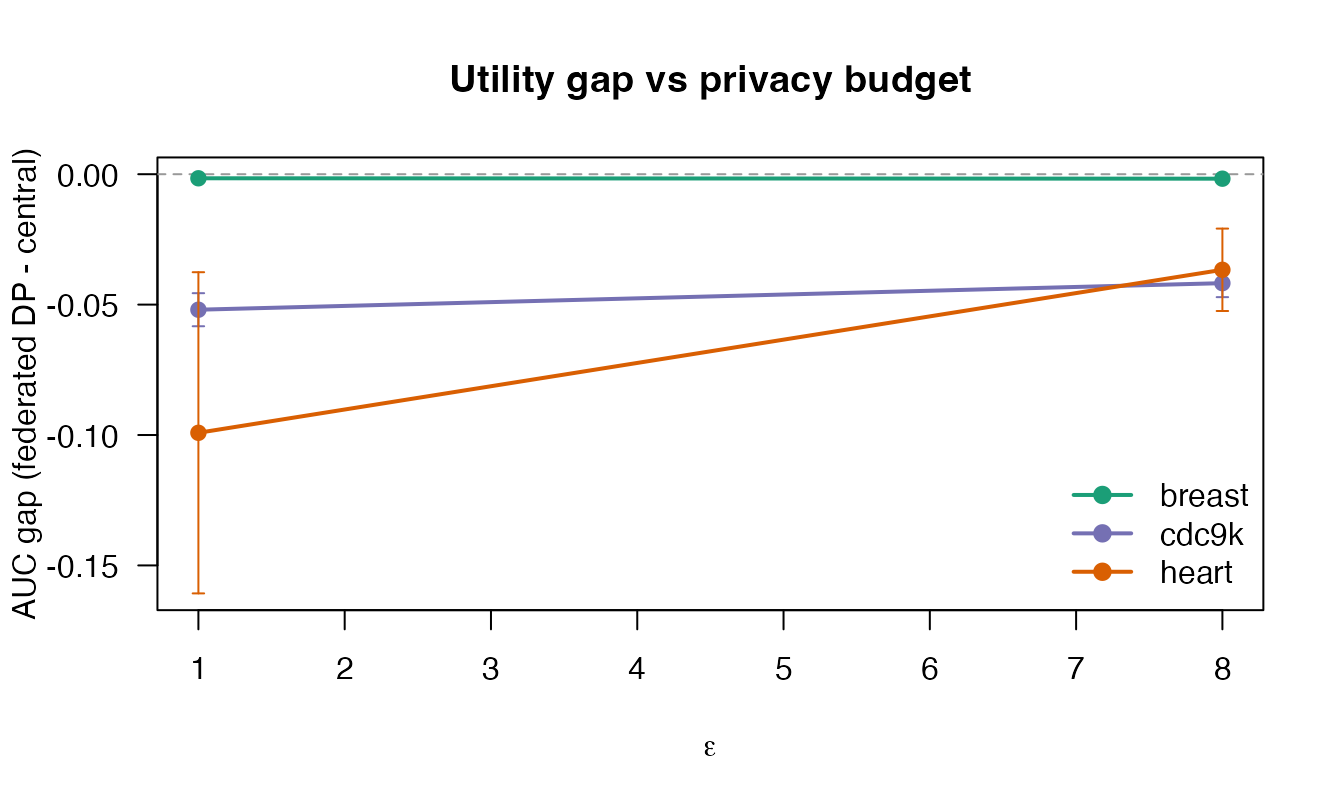
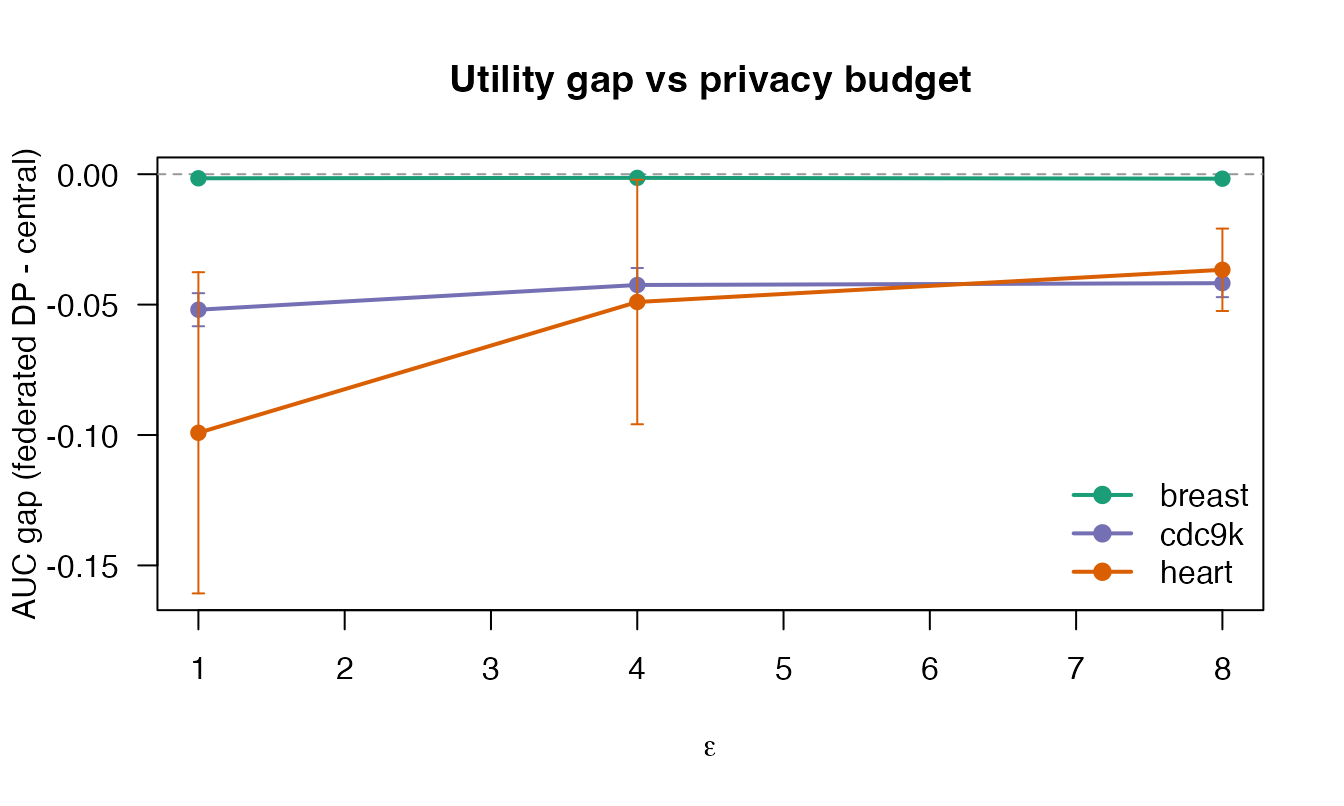
Utility-campaign article: read the source-tree evidence directory when rendering from the repo (the installed snapshot lagged the committed cells); n-scaling figure now renders

diff --git a/docs/articles/utility-campaign.html b/docs/articles/utility-campaign.html
@@ -109,7 +109,7 @@ are stored alongside. The headline quantity is the utility gap
 <h2 id="executed-cells">Executed cells<a class="anchor" aria-label="anchor" href="#executed-cells"></a>
 </h2>
 <table class="table">
-<caption>All executed campaign cells (6), three seeded replicates each,
+<caption>All executed campaign cells (10), three seeded replicates each,
 five federated rounds, three sites, delta = 1e-6, package-default
 clipping.</caption>
 <colgroup>
@@ -143,11 +143,29 @@ clipping.</caption>
 <tr class="even">
 <td align="left">Breast cancer (Wisconsin) (n = 683)</td>
 <td align="left">pytorch_logreg</td>
+<td align="right">4</td>
+<td align="right">0.9984</td>
+<td align="right">0.9970</td>
+<td align="right">-0.0014</td>
+<td align="right">0.0004</td>
+</tr>
+<tr class="odd">
+<td align="left">Breast cancer (Wisconsin) (n = 683)</td>
+<td align="left">pytorch_logreg</td>
 <td align="right">8</td>
 <td align="right">0.9984</td>
 <td align="right">0.9966</td>
 <td align="right">-0.0017</td>
 <td align="right">0.0013</td>
+</tr>
+<tr class="even">
+<td align="left">CDC diabetes (stratified subsample) (n = 2,000)</td>
+<td align="left">pytorch_logreg</td>
+<td align="right">1</td>
+<td align="right">0.8395</td>
+<td align="right">0.7901</td>
+<td align="right">-0.0493</td>
+<td align="right">0.0376</td>
 </tr>
 <tr class="odd">
 <td align="left">CDC diabetes (stratified subsample) (n = 9,000)</td>
@@ -161,13 +179,22 @@ clipping.</caption>
 <tr class="even">
 <td align="left">CDC diabetes (stratified subsample) (n = 9,000)</td>
 <td align="left">pytorch_logreg</td>
+<td align="right">4</td>
+<td align="right">0.8265</td>
+<td align="right">0.7840</td>
+<td align="right">-0.0425</td>
+<td align="right">0.0065</td>
+</tr>
+<tr class="odd">
+<td align="left">CDC diabetes (stratified subsample) (n = 9,000)</td>
+<td align="left">pytorch_logreg</td>
 <td align="right">8</td>
 <td align="right">0.8265</td>
 <td align="right">0.7847</td>
 <td align="right">-0.0418</td>
 <td align="right">0.0054</td>
 </tr>
-<tr class="odd">
+<tr class="even">
 <td align="left">Heart disease (Cleveland) (n = 297)</td>
 <td align="left">pytorch_logreg</td>
 <td align="right">1</td>
@@ -175,6 +202,15 @@ clipping.</caption>
 <td align="right">0.8241</td>
 <td align="right">-0.0992</td>
 <td align="right">0.0616</td>
+</tr>
+<tr class="odd">
+<td align="left">Heart disease (Cleveland) (n = 297)</td>
+<td align="left">pytorch_logreg</td>
+<td align="right">4</td>
+<td align="right">0.9232</td>
+<td align="right">0.8742</td>
+<td align="right">-0.0490</td>
+<td align="right">0.0469</td>
 </tr>
 <tr class="even">
 <td align="left">Heart disease (Cleveland) (n = 297)</td>
@@ -222,7 +258,7 @@ free.</li>
 <p>DP-SGD theory says per-sample noise impact shrinks roughly like
 <code>1/(n \* eps)</code>: at fixed epsilon, growing the cohort should
 shrink the privacy part of the gap toward the federation residual.</p>
-<pre><code><span><span class="co">#&gt; n-scaling cells beyond n = 9000 are executing; this figure extends automatically when their evidence lands.</span></span></code></pre>
+<p><img src="utility-campaign_files/figure-html/n-scaling-1.png" class="r-plt" alt="Utility gap versus cohort size at epsilon = 1" width="672"></p>
 </div>
 <div class="section level2">
 <h2 id="validation-checks">Validation checks<a class="anchor" aria-label="anchor" href="#validation-checks"></a>
